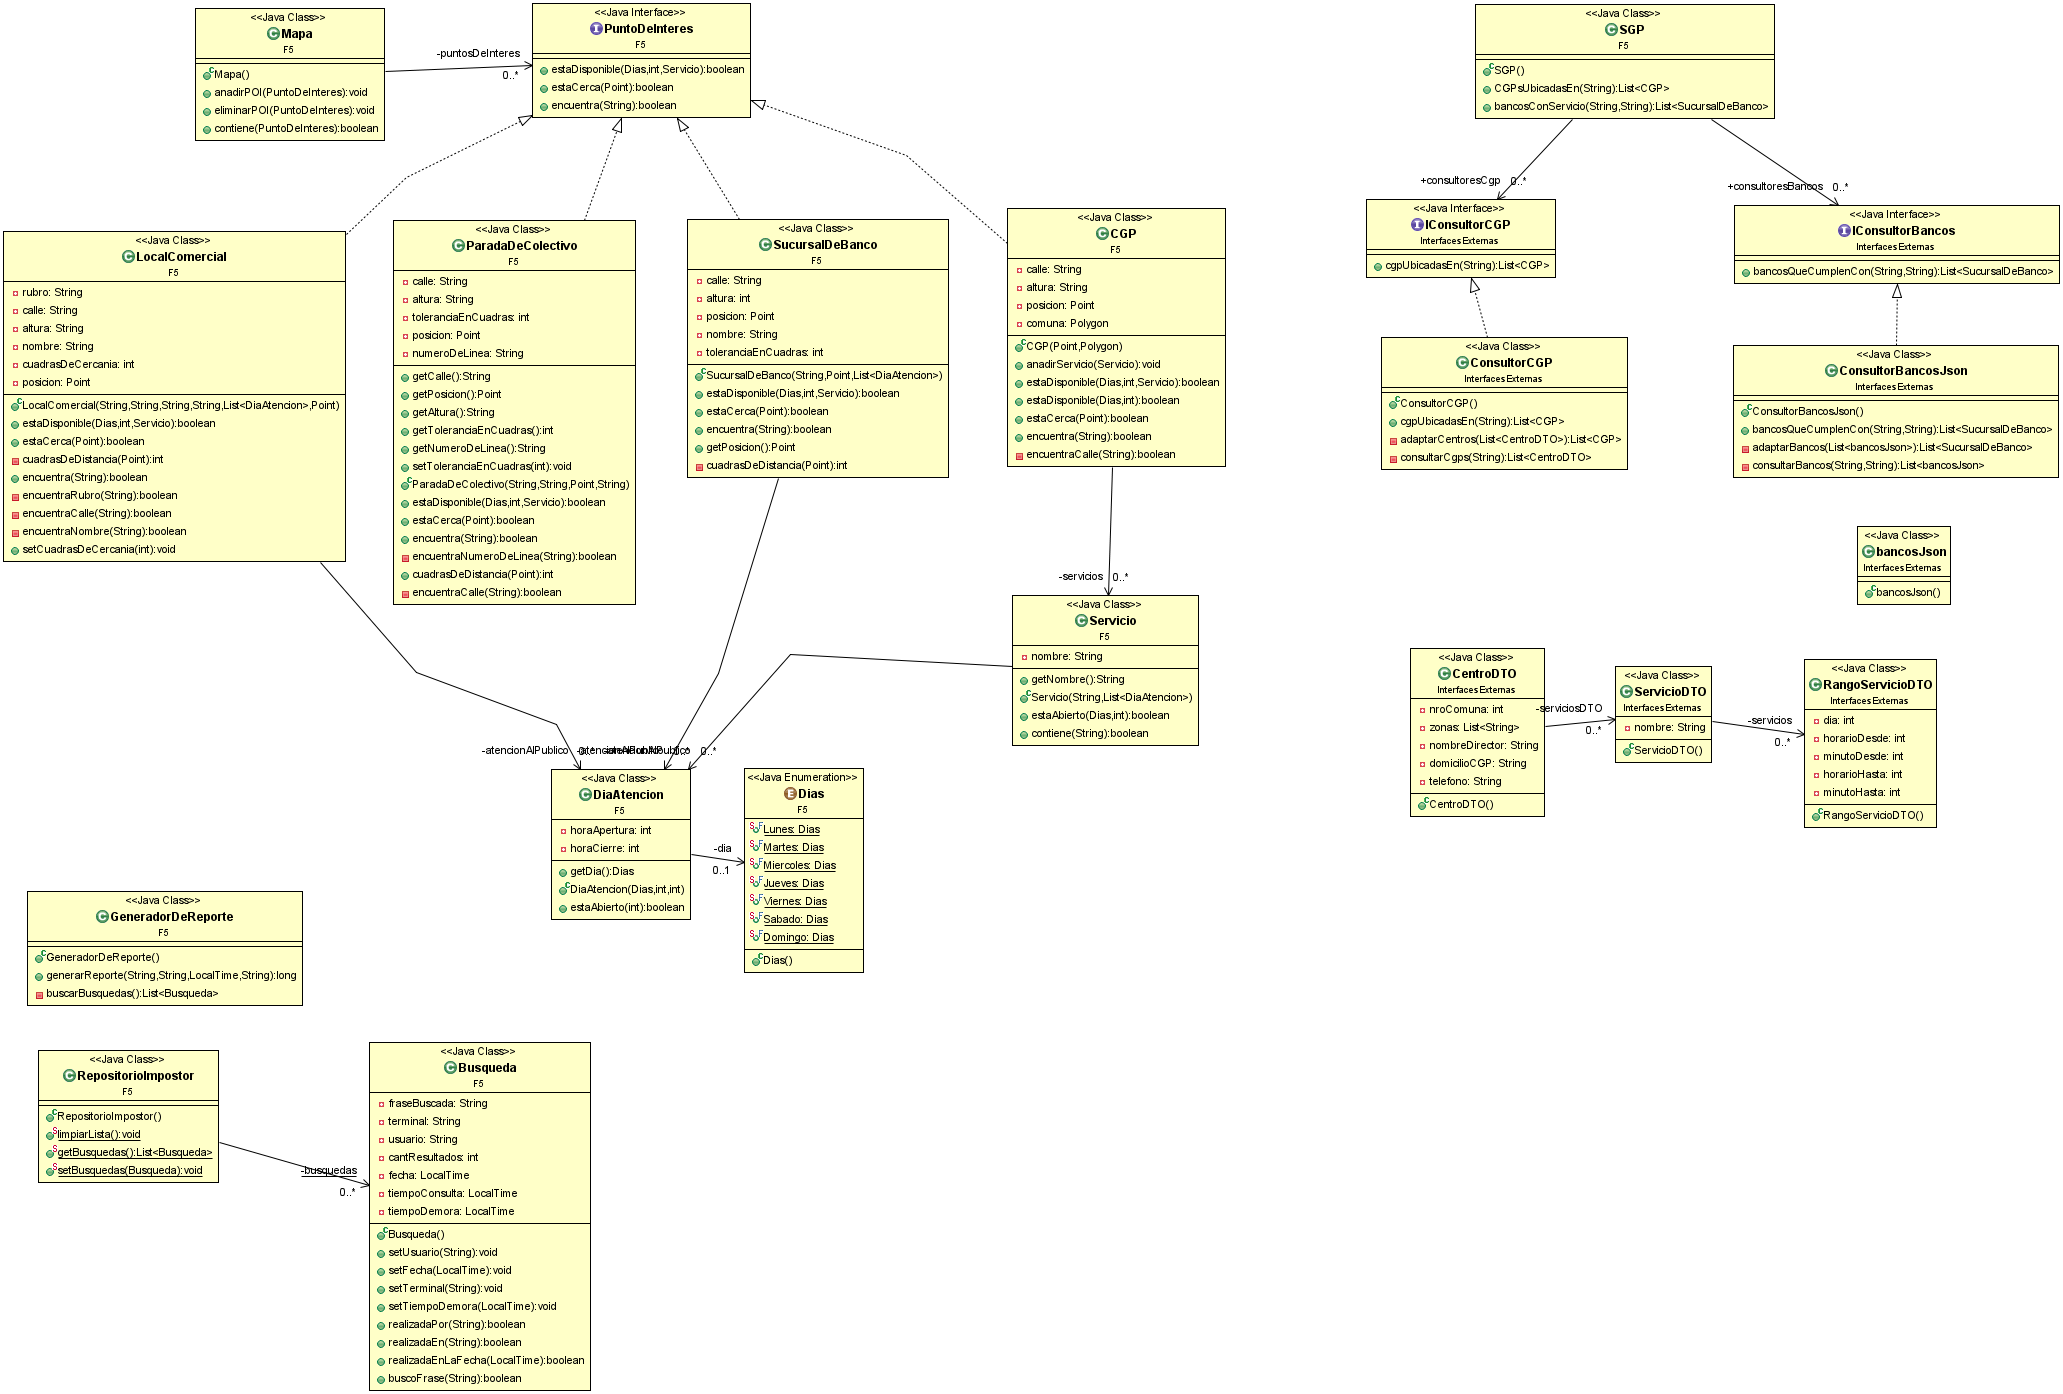
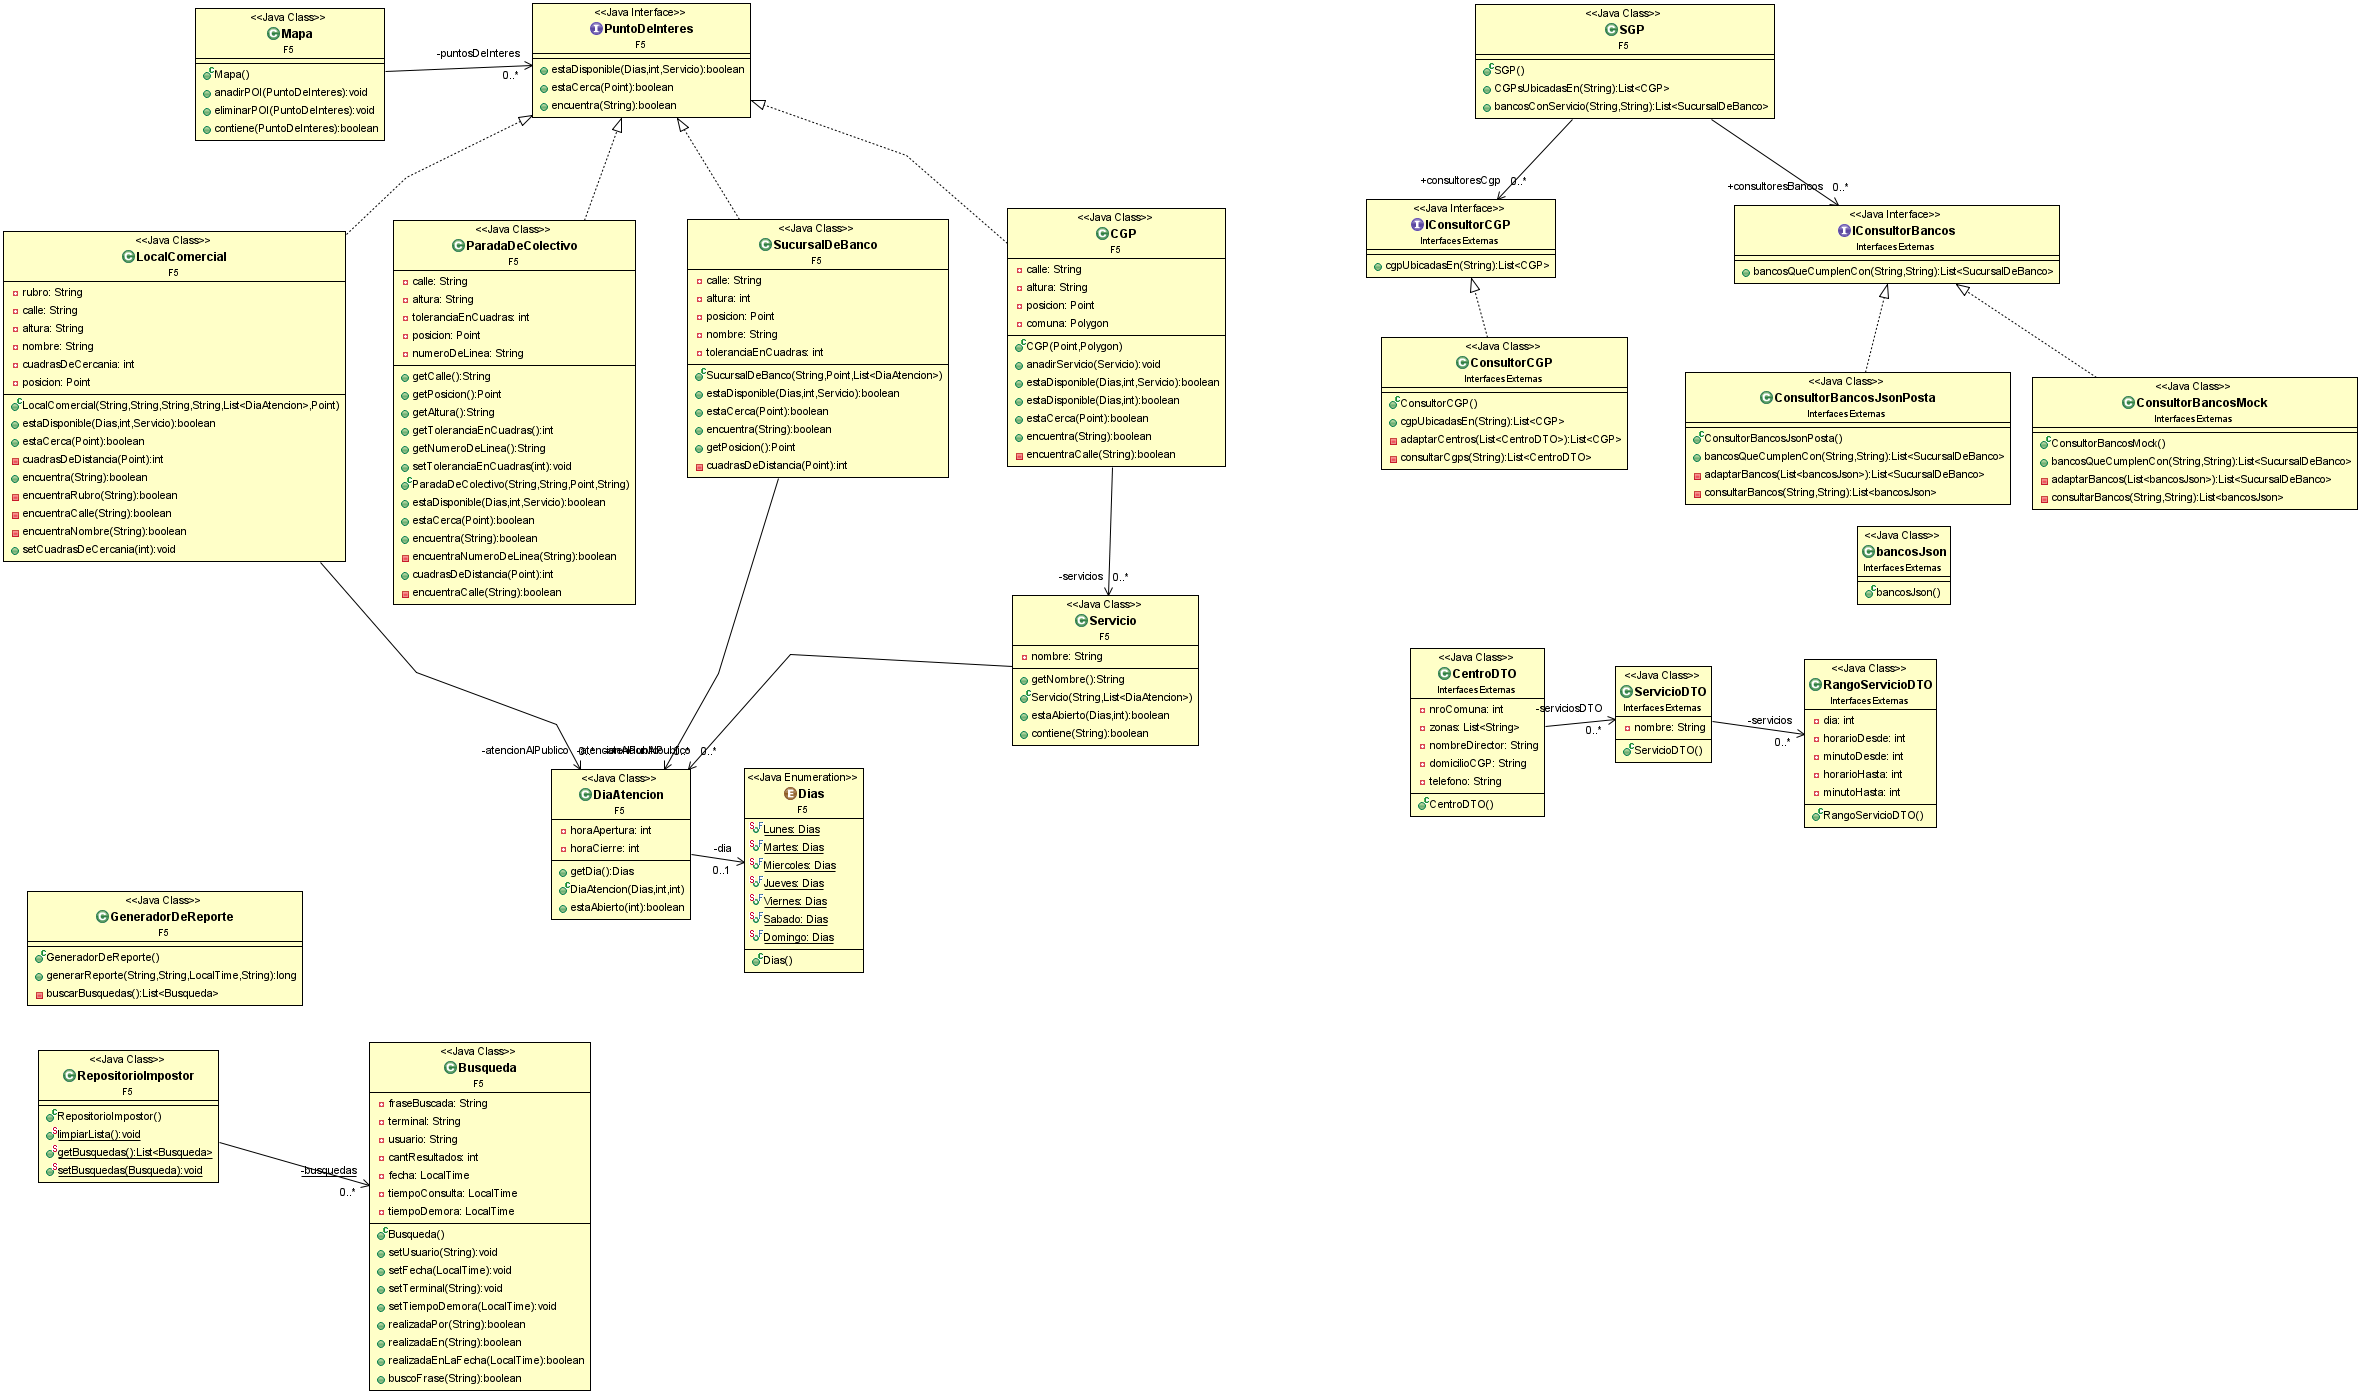
mockeando consultor de bancos. agrego un ejemplo de respuesta en JSON

diff --git a/src/main/java/InterfacesExternas/ConsultorBancosJsonPosta.java b/src/main/java/InterfacesExternas/ConsultorBancosJsonPosta.java
@@ -1,0 +1,30 @@
+package InterfacesExternas;
+
+import java.util.ArrayList;
+import java.util.List;
+
+import F5.SucursalDeBanco;
+
+public class ConsultorBancosJsonPosta implements IConsultorBancos{
+	//lo renombre como "POSTA" xq este es el que se va a comunicar con la URL del servicio REST y va a traer el json de respuesta del banco "posta"
+
+	@Override
+	public List<SucursalDeBanco> bancosQueCumplenCon(String nombreBanco, String unServicio) {
+		//TODO aca me comunico con el sistema externo via Json y luego los adapto a mi modelo
+		List<bancosJson> bancos = consultarBancos(nombreBanco, unServicio);
+		return adaptarBancos(bancos);
+	}
+
+	private List<SucursalDeBanco> adaptarBancos(List<bancosJson> bancos) {
+		// TODO aca hago la adaptacion de los json a nuestro modelo.
+		// Dependiendo el framework de json que usemos tal vez no sea necesaria la clase bancosJson
+		return new ArrayList<SucursalDeBanco>();
+	}
+
+	private List<bancosJson> consultarBancos(String nombreBanco, String unServicio) {
+		// TODO aca me comunico con el sistema externo y adapto el Json a bancosJson. devuelvo ARRAY LIST
+		// Dependiendo el framework de json que usemos tal vez no sea necesaria la clase bancosJson
+		return new ArrayList<bancosJson>();
+	}
+
+}

diff --git a/src/main/java/InterfacesExternas/ConsultorBancosMock.java b/src/main/java/InterfacesExternas/ConsultorBancosMock.java
@@ -5,7 +5,8 @@ import java.util.List;
 
 import F5.SucursalDeBanco;
 
-public class ConsultorBancosJson implements IConsultorBancos{
+public class ConsultorBancosMock implements IConsultorBancos{
+	//este es el que va a testear contra el ejemplo de respuesta json
 
 	@Override
 	public List<SucursalDeBanco> bancosQueCumplenCon(String nombreBanco, String unServicio) {
